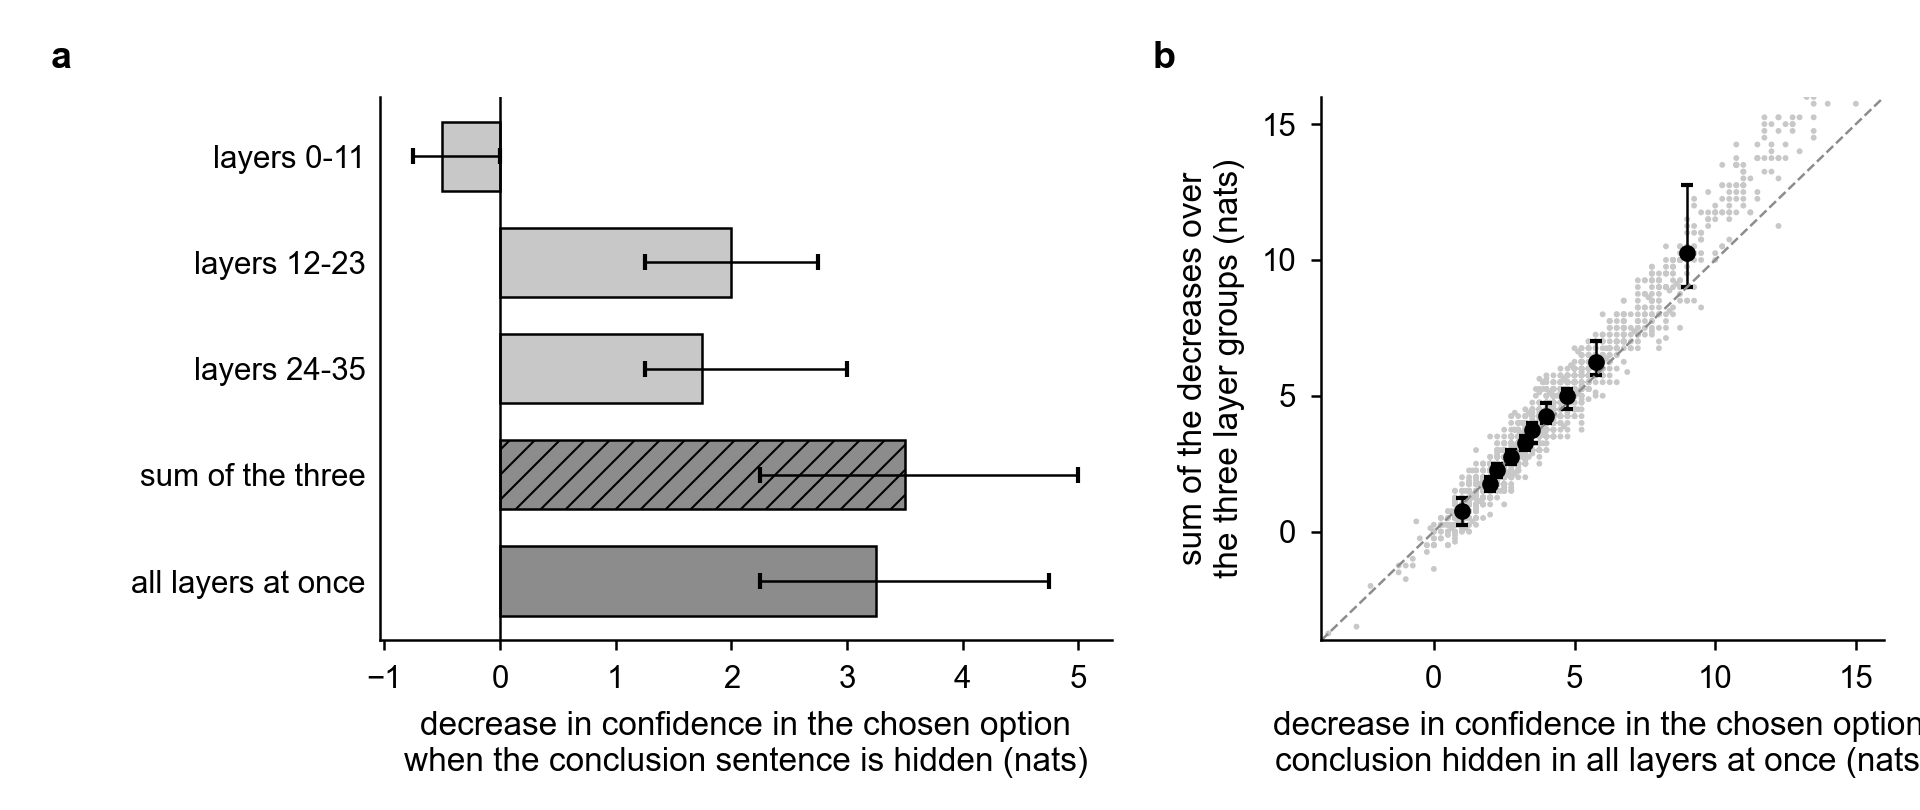
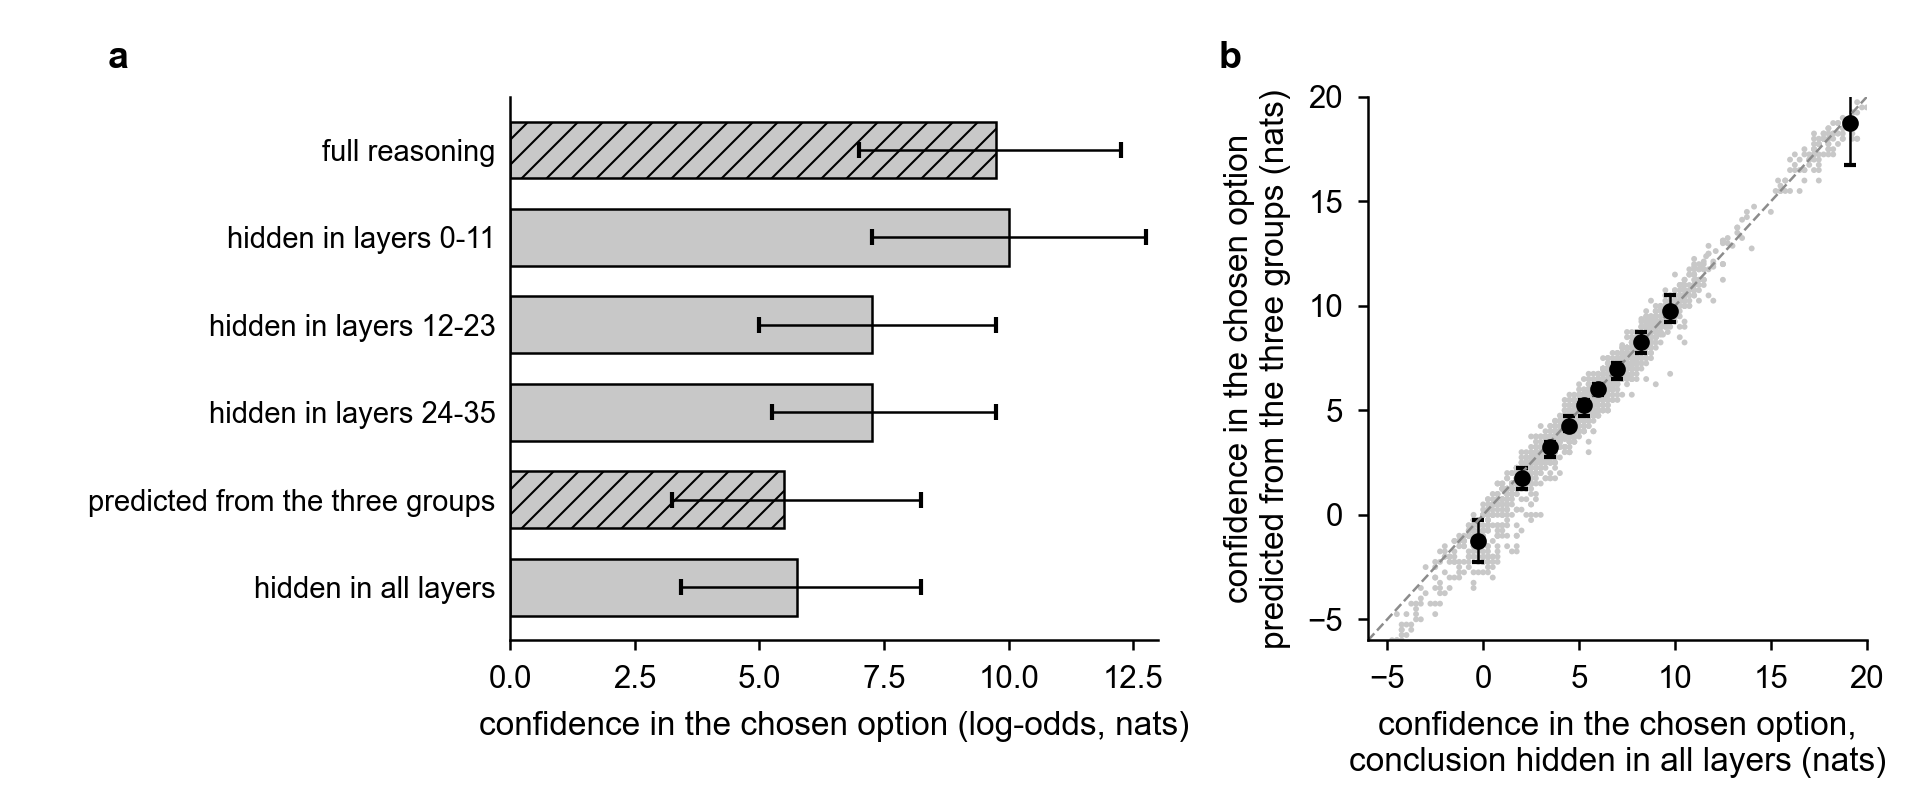
Figure 9 in levels: confidence in the chosen option per layer group, predicted vs observed

Changed region(s): [[0.0312, 0.0926, 1.0, 0.9568], [0.5938, 0.0617, 0.6562, 0.0926], [0.0312, 0.0617, 0.0625, 0.0926]]

diff --git a/src/paper_figures.py b/src/paper_figures.py
@@ -498,14 +498,19 @@ def fig5() -> None:
 # ------------------------------------------------------------------------------------------------------------------- fig 6
 
 def fig6() -> None:
+    """Confidence in the chosen option when the conclusion sentence is hidden in one group of layers; levels, as in Figure 8."""
     t = pd.read_csv(SCREEN / "medxpertqa_ablation_conclusion.csv")
     t["effect_sum"] = t.effect_concl_early + t.effect_concl_mid + t.effect_concl_late
-    conds = [("effect_concl_early", "layers 0-11"), ("effect_concl_mid", "layers 12-23"), ("effect_concl_late", "layers 24-35"), ("effect_sum", "sum of the three"), ("effect_concl_all", "all layers at once")]
+    t["y_pred"] = t.y_base - t.effect_sum                                             # if the three groups acted independently
+    conds = [("y_base", "full reasoning", True), ("y_concl_early", "hidden in layers 0-11", False), ("y_concl_mid", "hidden in layers 12-23", False),
+             ("y_concl_late", "hidden in layers 24-35", False), ("y_pred", "predicted from the three groups", True), ("y_concl_all", "hidden in all layers", False)]
     summ = pd.DataFrame([{"condition": lab, "median": t[c].median(), "q25": t[c].quantile(0.25), "q75": t[c].quantile(0.75),
-                          "flip_share": float((np.sign(t.y_base - t[c]) != np.sign(t.y_base)).mean()) if c != "effect_sum" else np.nan} for c, lab in conds])
+                          "flip_share": float((np.sign(t[c]) != np.sign(t.y_base)).mean()) if c not in ("y_base", "y_pred") else np.nan, "reference": ctl} for c, lab, ctl in conds])
     big = t[t.effect_concl_all.abs() > 1]
     stats = pd.DataFrame([{"stat": "ratio (early + mid + late) / all-layer effect, median over traces with |all| > 1 nat", "value": (big.effect_sum / big.effect_concl_all).median()},
-                          {"stat": "within-prompt Spearman rho of the sum with the all-layer effect", "value": wrho(t, "effect_concl_all", "effect_sum")},
+                          {"stat": "within-prompt Spearman rho of the sum of the three effects with the all-layer effect", "value": wrho(t, "effect_concl_all", "effect_sum")},
+                          {"stat": "within-prompt Spearman rho of the predicted level with the all-layer level", "value": wrho(t, "y_concl_all", "y_pred")},
+                          {"stat": "median of predicted minus observed all-layer level (nats)", "value": (t.y_pred - t.y_concl_all).median()},
                           {"stat": "share of the sum carried by layers 12-23, median", "value": (big.effect_concl_mid / big.effect_sum).median()},
                           {"stat": "share of the sum carried by layers 24-35, median", "value": (big.effect_concl_late / big.effect_sum).median()}])
     summ.to_csv(OUT / "fig6_ablation_layers.csv", index=False)
@@ -514,26 +519,25 @@ def fig6() -> None:
         fig, axes = plt.subplots(1, 2, figsize=(6.4, 2.7), gridspec_kw={"width_ratios": [1.3, 1]})
         ax = axes[0]
         y = np.arange(len(conds))[::-1]
-        for yi, (c, lab) in zip(y, conds):
-            ax.barh(yi, t[c].median(), color=LIGHT if c.startswith("effect_concl_") and c != "effect_concl_all" else MID, edgecolor=BLACK, linewidth=0.6, height=0.65,
-                    hatch="////" if c == "effect_sum" else None)
+        for yi, (c, lab, ctl) in zip(y, conds):
+            ax.barh(yi, t[c].median(), color=LIGHT, edgecolor=BLACK, linewidth=0.6, height=0.65, hatch="////" if ctl else None)
             ax.errorbar(t[c].median(), yi, xerr=[[t[c].median() - t[c].quantile(0.25)], [t[c].quantile(0.75) - t[c].median()]], fmt="none", ecolor=BLACK, elinewidth=0.6, capsize=2)
-        ax.axvline(0, color=BLACK, lw=0.6)
-        ax.set_yticks(y); ax.set_yticklabels([lab for _, lab in conds])
+        ax.set_yticks(y); ax.set_yticklabels([lab for _, lab, _ in conds], fontsize=7)
         ax.tick_params(axis="y", length=0)
-        ax.set_xlabel("decrease in confidence in the chosen option\nwhen the conclusion sentence is hidden (nats)")
+        ax.set_xlabel("confidence in the chosen option (log-odds, nats)")
+        ax.set_xlim(0, 13)
         ax = axes[1]
-        d = t.dropna(subset=["effect_sum", "effect_concl_all"])
-        ax.scatter(d.effect_concl_all, d.effect_sum, s=2, color=LIGHT, edgecolors="none", rasterized=True)
-        b = d.assign(bin=pd.qcut(d.effect_concl_all, 10, labels=False)).groupby("bin").agg(x=("effect_concl_all", "median"), y=("effect_sum", "median"), lo=("effect_sum", lambda s_: s_.quantile(0.25)), hi=("effect_sum", lambda s_: s_.quantile(0.75)))
+        d = t.dropna(subset=["y_pred", "y_concl_all"])
+        ax.scatter(d.y_concl_all, d.y_pred, s=2, color=LIGHT, edgecolors="none", rasterized=True)
+        b = d.assign(bin=pd.qcut(d.y_concl_all, 10, labels=False)).groupby("bin").agg(x=("y_concl_all", "median"), y=("y_pred", "median"), lo=("y_pred", lambda s_: s_.quantile(0.25)), hi=("y_pred", lambda s_: s_.quantile(0.75)))
         ax.errorbar(b.x, b.y, yerr=[b.y - b.lo, b.hi - b.y], fmt="o", color=BLACK, ms=3, elinewidth=0.6, capsize=1.5)
-        lim = (-4, 16)
+        lim = (-6, 20)
         ax.plot(lim, lim, color=MID, lw=0.6, ls="--")
         ax.set_xlim(lim); ax.set_ylim(lim)
-        ax.set_xticks([0, 5, 10, 15]); ax.set_yticks([0, 5, 10, 15])
-        ax.set_xlabel("decrease in confidence in the chosen option,\nconclusion hidden in all layers at once (nats)")
-        ax.set_ylabel("sum of the decreases over\nthe three layer groups (nats)")
-        for ax_, letter, x in zip(axes, "ab", (-0.45, -0.3)):
+        ax.set_xticks([-5, 0, 5, 10, 15, 20]); ax.set_yticks([-5, 0, 5, 10, 15, 20])
+        ax.set_xlabel("confidence in the chosen option,\nconclusion hidden in all layers (nats)")
+        ax.set_ylabel("confidence in the chosen option\npredicted from the three groups (nats)")
+        for ax_, letter, x in zip(axes, "ab", (-0.62, -0.3)):
             ax_.text(x, 1.04, letter, transform=ax_.transAxes, fontsize=9, fontweight="bold", va="bottom")
         fig.tight_layout(w_pad=1.0)
         fig.savefig(OUT / "fig6_ablation_layers.png")

diff --git a/paper/main.tex b/paper/main.tex
@@ -95,12 +95,12 @@ Reasoning language models end their thinking with a conclusion sentence (``There
 \label{fig:ablation}
 \end{figure}
 
-\item \textbf{Only the middle and late layers carry the conclusion to the answer, and their contributions add up.} Hiding the conclusion sentence in one group of layers at a time, the decrease in confidence in the chosen option is $-0.5$ nats for layers 0--11 (nothing, and no answer flips), 2.0 for layers 12--23 and 1.75 for layers 24--35, against 3.25 when all 36 layers hide it (Figure~\ref{fig:layers}a). Trace by trace, the sum of the three group effects equals the all-layer effect (ratio 1.04, within-question Spearman $+0.95$; Figure~\ref{fig:layers}b), so the three groups act independently and no group compensates when another is blocked.
+\item \textbf{Only the middle and late layers carry the conclusion to the answer, and their contributions add up.} We hide the conclusion sentence in one group of twelve layers at a time and read the confidence in the chosen option as before (Figure~\ref{fig:layers}a). Hiding it in layers 0--11 leaves the confidence at the full-reasoning level (10.0 against 9.75 nats, no answer flips); hiding it in layers 12--23 or in layers 24--35 lowers it to 7.25 in either case. Hiding it in all 36 layers gives 5.75. If the three groups acted independently, the confidence with all layers hidden would be the full-reasoning value minus the three separate drops; this prediction is 5.5 nats overall and matches the observed 5.75 trace by trace (within-question Spearman $+0.95$, median difference 0.0 nats; Figure~\ref{fig:layers}b). The two later groups therefore read the conclusion sentence in parallel, and neither compensates when the other is blocked.
 
 \begin{figure}[h]
 \centering
 \includegraphics[width=0.9\textwidth]{confidence_inflation_in_llms/fig6_ablation_layers.png}
-\caption{Which layers carry the conclusion sentence to the answer. (a) Decrease in confidence in the chosen option when the conclusion sentence is hidden from \texttt{</think>} and the answer-writing position in one group of layers only (median, quartiles over 2,400 traces); hatched = the sum of the three group effects; last bar = all 36 layers at once. (b) Per trace, the sum of the three group effects against the all-layer effect (dots = traces, points = medians per decile with quartiles, dashed = equality).}
+\caption{Which layers carry the conclusion sentence to the answer. (a) Confidence in the chosen option when the conclusion sentence is hidden from \texttt{</think>} and the answer-writing position in one group of layers only, or in all layers (2,400 traces; bars = median, whiskers = quartiles). Hatched bars are references: the full reasoning with nothing hidden, and the value predicted for all layers if the three groups acted independently (full reasoning minus the sum of the three separate drops). (b) Per trace, the predicted value against the value observed with the conclusion hidden in all layers (dots = traces, points = medians per decile with quartiles, dashed = equality).}
 \label{fig:layers}
 \end{figure}
 
